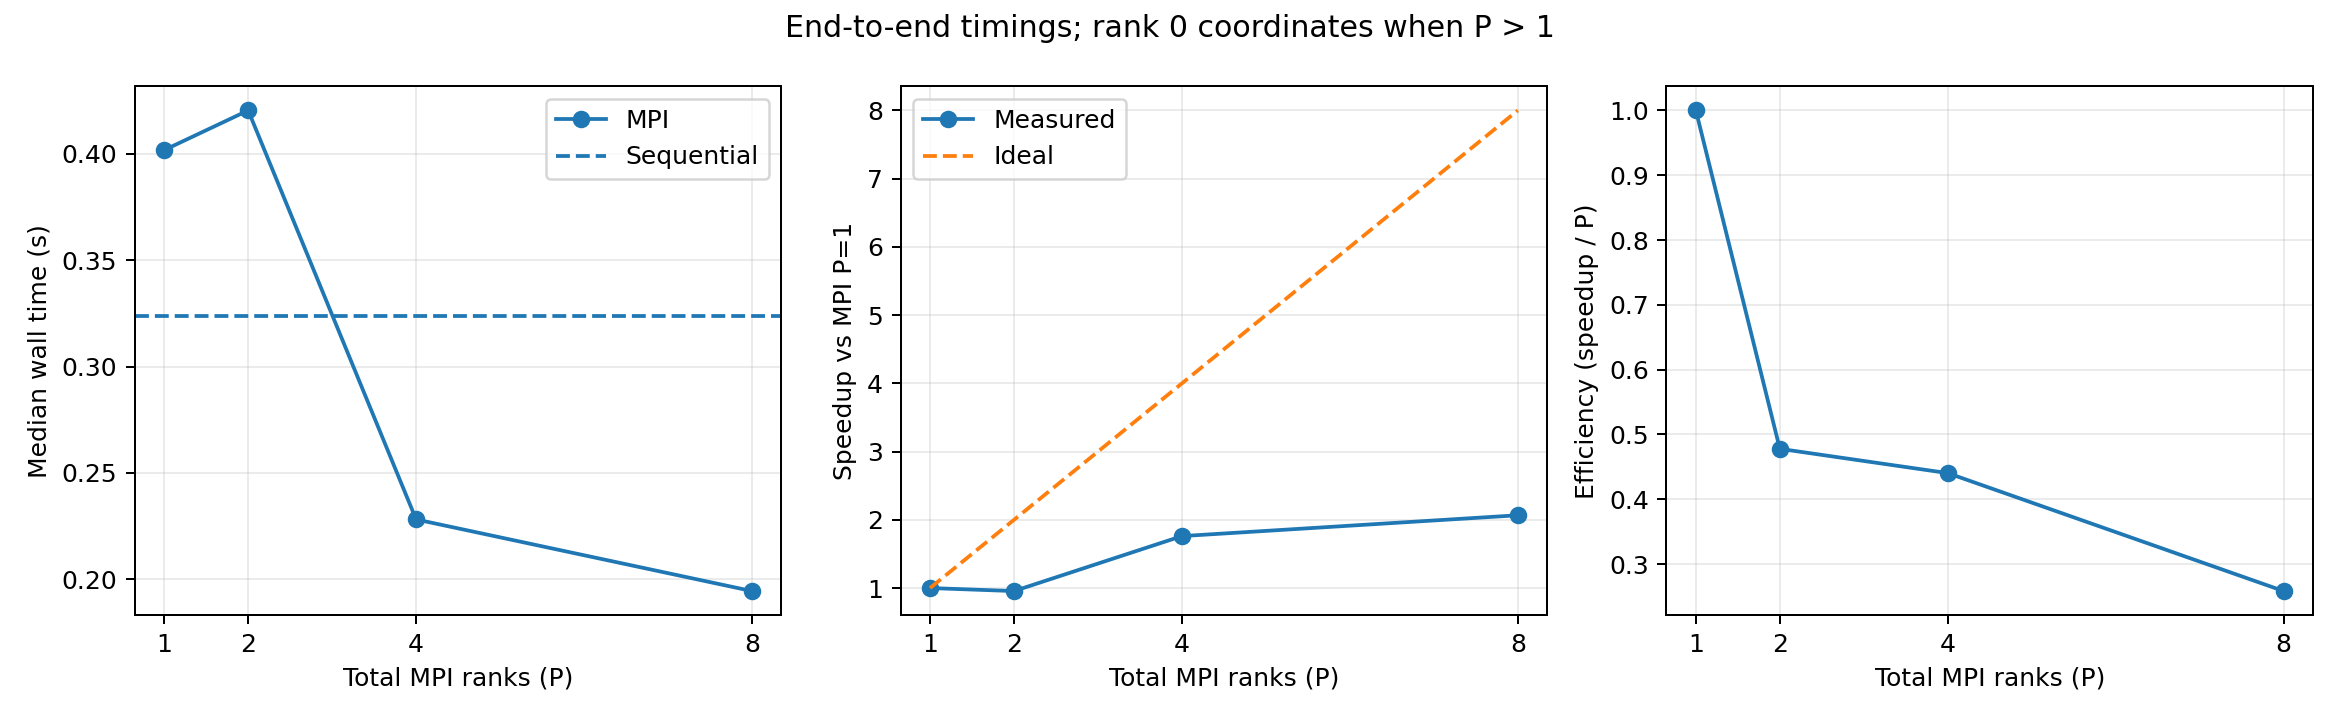
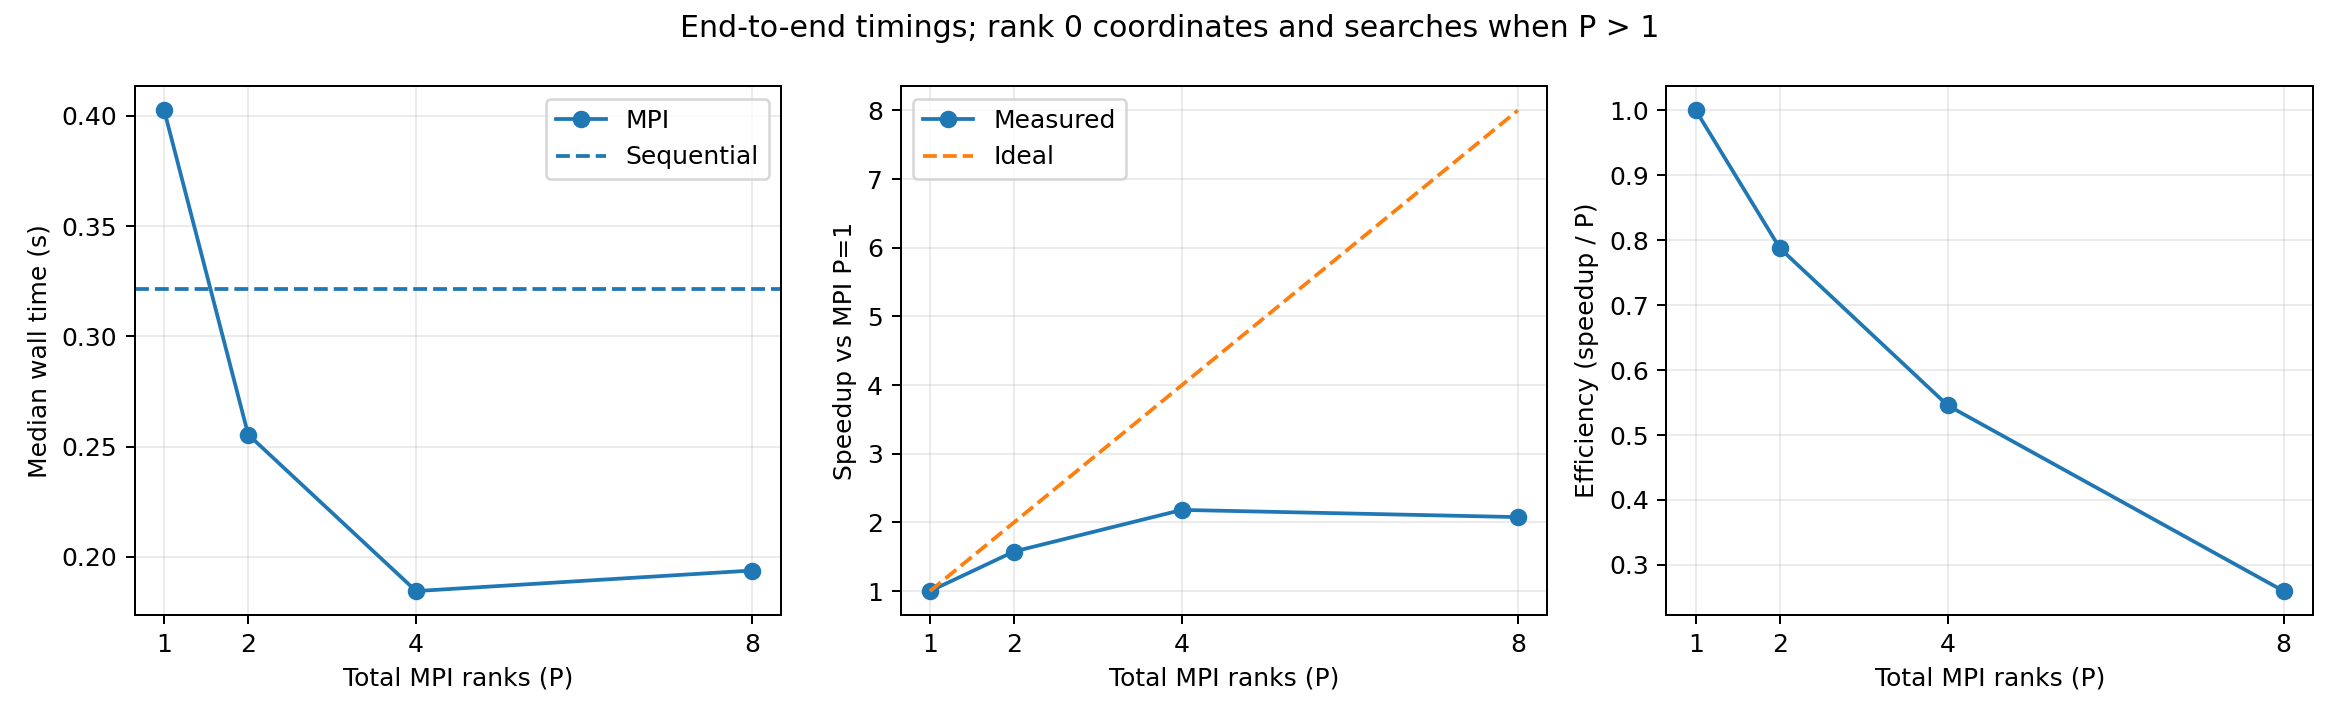
Optimize MPI scheduling with coordinator search and coalesced updates

diff --git a/src/mpi.cpp b/src/mpi.cpp
@@ -1,16 +1,22 @@
 #include "solver.hpp"
 #include <mpi.h>
+#include <functional>
 
-const int TAG_WORK        = 1;  
-const int TAG_RESULT      = 2;  
-const int TAG_DONE        = 3;  
-const int TAG_PMAX        = 4;  
-const int TAG_UPDATE_PMAX = 5;  
+const int TAG_WORK        = 1;
+const int TAG_RESULT      = 2;
+const int TAG_DONE        = 3;
+const int TAG_PMAX        = 4;
+const int TAG_UPDATE_PMAX = 5;
 
 
 
 const int WORK_BUF = 2;
-const int RES_BUF  = 2 + MAXN;  
+const int RES_BUF  = 2 + MAXN;
+
+static function<void()> coordinator_progress;
+static function<void()> coordinator_notify;
+void poll_coordinator() { coordinator_progress(); }
+void notify_coordinator() { coordinator_notify(); }
 
 void drain_pmax_updates() {
     int flag, np;
@@ -63,56 +69,79 @@ int main(int argc, char** argv) {
 
     // ── MASTER (rank 0) ───────────────────────────────────────────────────────
     if (rank == 0) {
+        struct Task { int root; };
+        vector<Task> tasks;
+        // Omit infeasible roots and roots without any feasible extension.
+        // Singleton solutions are retained by the coordinator.
+        for (int root = 0; root < N; ++root) {
+            if (nodes[root].cost > B) continue;
+            if (nodes[root].profit > Pmax) {
+                Pmax = nodes[root].profit;
+                best_clique = {root};
+            }
+            vector<int> extensions;
+            for (int u = root + 1; u < N; ++u)
+                if (adj[root].test(u) && nodes[root].cost + nodes[u].cost <= B)
+                    extensions.push_back(u);
+            if (extensions.empty()) continue;
+            tasks.push_back({root});
+        }
         int sent = 0, active = 0;
         int workers = size - 1;
         int wbuf[WORK_BUF], rbuf[RES_BUF];
         set<int> active_set;
-        // Stable per-send buffers prevent cyclic blocking and buffer reuse races.
-        struct PendingUpdate { int value; MPI_Request request; };
-        list<PendingUpdate> pending;
-        auto send_bound = [&](int worker) {
-            for (auto it = pending.begin(); it != pending.end();) {
-                int complete = 0;
-                MPI_Test(&it->request, &complete, MPI_STATUS_IGNORE);
-                if (complete) it = pending.erase(it); else ++it;
+        // At most one update in flight per worker; newer bounds are coalesced.
+        struct BoundChannel {
+            int value = 0;
+            MPI_Request request = MPI_REQUEST_NULL;
+        };
+        vector<BoundChannel> channels(size);
+        auto flush_bounds = [&]() {
+            for (int worker : active_set) {
+                auto& channel = channels[worker];
+                if (channel.request != MPI_REQUEST_NULL) {
+                    int complete = 0;
+                    MPI_Test(&channel.request, &complete, MPI_STATUS_IGNORE);
+                    if (!complete) continue;
+                }
+                if (channel.value < Pmax) {
+                    channel.value = Pmax;
+                    MPI_Isend(&channel.value, 1, MPI_INT, worker, TAG_PMAX,
+                              MPI_COMM_WORLD, &channel.request);
+                }
             }
-            pending.push_back({Pmax, MPI_REQUEST_NULL});
-            auto& update = pending.back();
-            MPI_Isend(&update.value, 1, MPI_INT, worker, TAG_PMAX,
-                      MPI_COMM_WORLD, &update.request);
         };
 
-        auto send_task = [&](int w, int root_idx) {
+        auto send_task = [&](int w, const Task& task) {
             wbuf[0] = Pmax;
-            wbuf[1] = root_idx;
+            wbuf[1] = task.root;
             MPI_Send(wbuf, WORK_BUF, MPI_INT, w, TAG_WORK, MPI_COMM_WORLD);
             active_set.insert(w);
         };
 
         for (int w = 1; w <= workers; w++) {
-            if (sent < N) {
-                send_task(w, sent++);
+            if (sent < static_cast<int>(tasks.size())) {
+                send_task(w, tasks[sent++]);
                 active++;
             } else {
                 MPI_Send(nullptr, 0, MPI_INT, w, TAG_DONE, MPI_COMM_WORLD);
             }
         }
 
-        while (active > 0) {
+        auto receive_message = [&]() {
             MPI_Status st;
             MPI_Recv(rbuf, RES_BUF, MPI_INT, MPI_ANY_SOURCE, MPI_ANY_TAG, MPI_COMM_WORLD, &st);
 
             int w = st.MPI_SOURCE;
+            flush_bounds();
 
             if (st.MPI_TAG == TAG_UPDATE_PMAX) {
                 int wpmax = rbuf[0];
                 if (wpmax > Pmax) {
                     Pmax = wpmax;
-                    for (int aw : active_set) {
-                        if (aw != w) send_bound(aw);
-                    }
+                    flush_bounds();
                 }
-                continue; 
+                return;
             }
 
             int wpmax = rbuf[0], csz = rbuf[1];
@@ -123,23 +152,56 @@ int main(int argc, char** argv) {
                 best_clique.assign(rbuf + 2, rbuf + 2 + csz);
             }
             if (Pmax > old_pmax) {
-                for (int aw : active_set) {
-                    if (aw != w) send_bound(aw);
-                }
+                flush_bounds();
             }
 
             active--;
             active_set.erase(w);
 
-            if (sent < N) {
-                send_task(w, sent++);
+            if (sent < static_cast<int>(tasks.size())) {
+                send_task(w, tasks[sent++]);
                 active++;
             } else {
                 MPI_Send(nullptr, 0, MPI_INT, w, TAG_DONE, MPI_COMM_WORLD);
             }
-        }
+        };
 
-        for (auto& update : pending) MPI_Wait(&update.request, MPI_STATUS_IGNORE);
+        auto progress = [&]() {
+            int available = 0;
+            do {
+                MPI_Iprobe(MPI_ANY_SOURCE, MPI_ANY_TAG, MPI_COMM_WORLD,
+                           &available, MPI_STATUS_IGNORE);
+                if (available) receive_message();
+            } while (available);
+            flush_bounds();
+        };
+        coordinator_progress = progress;
+        coordinator_notify = flush_bounds;
+        is_worker = true;
+        poll_updates = poll_coordinator;
+        report_improvement = notify_coordinator;
+        // Rank 0 searches while servicing messages at recursive polling points.
+        while (sent < static_cast<int>(tasks.size()) || active > 0) {
+            progress();
+            if (sent < static_cast<int>(tasks.size())) {
+                int root = tasks[sent++].root;
+                bitset<MAXN> sub;
+                for (int u = root + 1; u < N; ++u)
+                    if (adj[root].test(u)) sub.set(u);
+                vector<int> cur{root};
+                call_count = 0;
+                findClique(sub, cur, nodes[root].profit, nodes[root].cost);
+            } else if (active > 0) {
+                receive_message();
+            }
+        }
+        is_worker = false;
+        coordinator_progress = {};
+        coordinator_notify = {};
+
+        for (auto& channel : channels)
+            if (channel.request != MPI_REQUEST_NULL)
+                MPI_Wait(&channel.request, MPI_STATUS_IGNORE);
         fprintf(stderr, "Search seconds: %.6f\n", MPI_Wtime() - search_start);
         write_output(argv[2]);
         
@@ -153,7 +215,7 @@ int main(int argc, char** argv) {
         while (true) {
             MPI_Status st;
             MPI_Recv(wbuf, WORK_BUF, MPI_INT, 0, MPI_ANY_TAG, MPI_COMM_WORLD, &st);
-            
+
             if (st.MPI_TAG == TAG_DONE) break;
             
             if (st.MPI_TAG == TAG_PMAX) {
@@ -162,7 +224,7 @@ int main(int argc, char** argv) {
             }
             
             Pmax = max(Pmax, wbuf[0]);
-            task_own_pmax = 0;   
+            task_own_pmax = 0;
             best_clique.clear();
             
             int root = wbuf[1];

diff --git a/tests/test_correctness.py b/tests/test_correctness.py
@@ -77,6 +77,22 @@ class Correctness(unittest.TestCase):
             self.assertEqual(run.returncode, 0, run.stderr)
             self.assertEqual(validate(graph, output), 2)
 
+    def test_complete_graph_with_many_candidates(self):
+        # Exercise a large feasible clique and coordinator-held witnesses.
+        source, output = self.folder/'split.txt', self.folder/'out.txt'
+        n = 64
+        source.write_text(f'{n} {n*(n-1)//2} {n}\n' + '1 1\n'*n +
+                          ''.join(f'{u} {v}\n' for u in range(n) for v in range(u+1,n)))
+        graph = read_graph(source)
+        commands = [[str(ROOT/'build/clique-seq')]]
+        if not ARGS.sequential_only:
+            commands += [['mpirun'] + shlex.split(ARGS.mpi_flags) +
+                         ['-np', str(p), str(ROOT/'build/clique-mpi')] for p in [4, 8]]
+        for command in commands:
+            run = subprocess.run(command+[str(source),str(output)], capture_output=True, text=True, timeout=30)
+            self.assertEqual(run.returncode, 0, run.stderr)
+            self.assertEqual(validate(graph, output), n)
+
     def test_invalid_inputs_fail(self):
         invalid = ['3 0 1\n1000000000 1\n1000000000 1\n1000000000 1\n', '1201 0 0\n', '1 0 -1\n1 1\n', '1 0 1\n1 0\n',
                    '2 1 1\n1 1\n1 1\n0 2\n', '1 0 1\n',

diff --git a/scripts/benchmark.py b/scripts/benchmark.py
@@ -87,7 +87,7 @@ def main():
                               mpi1_efficiency=(mpi1/elapsed)/p if implementation == 'mpi' else ''))
     for name, records in [('trials.csv', rows), ('summary.csv', summaries)]:
         with (args.output_dir/name).open('w', newline='') as f:
-            writer = csv.DictWriter(f, fieldnames=list(records[0]))
+            writer = csv.DictWriter(f, fieldnames=list(records[0]), lineterminator='\n')
             writer.writeheader()
             writer.writerows(records)
     metadata = dict(timestamp_utc=time.strftime('%Y-%m-%dT%H:%M:%SZ', time.gmtime()),

diff --git a/scripts/plot.py b/scripts/plot.py
@@ -30,7 +30,7 @@ for ax in axes:
     ax.set_xlabel('Total MPI ranks (P)')
     ax.set_xticks(p)
     ax.grid(alpha=.25)
-fig.suptitle('End-to-end timings; rank 0 coordinates when P > 1')
+fig.suptitle('End-to-end timings; rank 0 coordinates and searches when P > 1')
 fig.tight_layout()
 args.output.parent.mkdir(parents=True, exist_ok=True)
 fig.savefig(args.output, dpi=180)

diff --git a/README.md b/README.md
@@ -24,7 +24,7 @@ Use `make sequential` if MPI is unavailable, and `make mpi` to build only the di
 
 ## Search and distribution
 
-Both executables share the search engine in [src/solver.hpp](src/solver.hpp). It uses fixed arrays, bitset candidates, ratio ordering, greedy coloring, fractional-knapsack bounds, and root traversal. The sequential runner and MPI with one rank both call the same `solve_all()` function. MPI communication is provided through worker-only hooks; the sequential executable has no MPI dependency.
+Both executables share the search engine in [src/solver.hpp](src/solver.hpp). It uses fixed arrays, bitset candidates, ratio ordering, greedy coloring, fractional-knapsack bounds, and root traversal. The sequential runner and MPI with one rank both call the same `solve_all()` function. MPI communication is provided through hooks on searching ranks; the sequential executable has no MPI dependency.
 
 Vertices are sorted by descending profit-to-cost ratio using exact integer cross-products, with input vertex IDs retained for output. Adjacency is stored in fixed-width 1,201-bit bitsets with at most 1,200 valid vertices. Candidate intersections enforce the clique condition, while removing each explored vertex prevents duplicate branches.
 
@@ -35,7 +35,7 @@ Two upper bounds prune search:
 
 Every feasible search prefix updates the incumbent before pruning. A subtree begins with one vertex and permits only later vertices, so each nonempty clique belongs to exactly one root task.
 
-With `P > 1`, MPI rank 0 reads and broadcasts the graph, dispatches root tasks dynamically, and retains the best result. The other `P - 1` ranks search subtrees. Each dispatch includes the current incumbent. Workers report improved profits during recursion and periodically poll for coordinator updates; completed tasks return their locally discovered profit and vertex set. Coordinator updates use nonblocking sends with stable buffers to avoid cyclic blocking. The graph broadcast uses raw struct/bitset data and assumes compatible binaries and object layouts across ranks. With one rank, MPI calls the same local search as the sequential executable.
+With `P > 1`, MPI rank 0 reads and broadcasts the graph, dispatches root tasks dynamically, and retains the best result. Rank 0 also searches unassigned root subtrees and services messages at recursive polling points, so all `P` ranks can contribute search work. Each dispatch includes the current incumbent. Workers report improved profits during recursion and periodically poll for coordinator updates; completed tasks return their locally discovered profit and vertex set. Coordinator updates use a stable per-worker buffer and at most one nonblocking send in flight per worker; newer bounds are coalesced until the buffer is free. Infeasible roots and roots without a feasible extension are omitted after recording their singleton solutions. The graph broadcast uses raw struct/bitset data and assumes compatible binaries and object layouts across ranks. With one rank, MPI calls the same local search as the sequential executable.
 
 ```mermaid
 flowchart LR
@@ -101,7 +101,7 @@ The benchmark uses Python subprocess wall time, including process launch, MPI in
 
 Artifacts include raw trial timings, medians, output solutions, input hash, binary hashes, generation metadata when supplied, platform and CPU information, compiler/MPI versions, commands, Git revision and worktree status. Build flags are controlled by the Makefile; record overrides separately when changing them. Use multiple graph sizes, densities, seeds, and budgets for a broader study. Keep process counts within allocated resources, or explicitly pass `--mpi-flags='--oversubscribe'` for a local experiment.
 
-`sequential_speedup = T_seq / T_MPI(P)` compares the executables. `mpi1_speedup = T_MPI(1) / T_MPI(P)` measures MPI scaling. `mpi1_efficiency = mpi1_speedup / P` counts all ranks, including the coordinator. Sequential and one-rank MPI use the identical search function. End-to-end MPI timings still include launch and initialization overhead; parallel scheduling and incumbent arrival order can affect search work. Use the MPI-one-rank baseline to assess MPI scaling; scheduling, incumbent communication, graph distribution, and the dedicated coordinator still affect it.
+`sequential_speedup = T_seq / T_MPI(P)` compares the executables. `mpi1_speedup = T_MPI(1) / T_MPI(P)` measures MPI scaling. `mpi1_efficiency = mpi1_speedup / P` counts all ranks, including the coordinator. Sequential and one-rank MPI use the identical search function. End-to-end MPI timings still include launch and initialization overhead; parallel scheduling and incumbent arrival order can affect search work. Use the MPI-one-rank baseline to assess MPI scaling; scheduling, incumbent communication, graph distribution, and coordinator message servicing still affect it.
 
 The measured [sequential-versus-MPI benchmark](benchmarks/seq-vs-mpi/README.md) compares sequential and MPI execution of the shared search engine. Raw trials, environment metadata, validated outputs, and a scaling chart are included. Results describe this workload and machine; use multiple graphs and machines before drawing general conclusions.
 

diff --git a/benchmarks/seq-vs-mpi/README.md b/benchmarks/seq-vs-mpi/README.md
@@ -1,24 +1,24 @@
 # Sequential versus MPI benchmark
 
-Both executables use the same search engine in `src/solver.hpp`. Sequential and one-rank MPI call the same root traversal, bounds, candidate operations, and incumbent updates.
+Both executables use the search engine in `src/solver.hpp`. Sequential and one-rank MPI call the same root traversal and bounds. With multiple ranks, rank 0 coordinates and also searches, servicing incoming messages at recursive polling points. Incumbent updates use one stable in-flight buffer per worker; newer bounds are coalesced.
 
-Measured on Apple M1 with 8 logical CPUs, Apple Clang, C++17 `-O3`, and Open MPI 5.0.9. Graph: 400 vertices, 39890 edges, density parameter 0.5, budget 500, seed 42, profits/costs in 1–100. One warmup and five measured trials per configuration, with MPI rank counts 1, 2, 4, and 8. All MPI runs explicitly use `--oversubscribe`.
+Measured on Apple M1 with 8 logical CPUs, Apple Clang, C++17 `-O3`, and Open MPI 5.0.9. Graph: 400 vertices, 39,890 edges, density parameter 0.5, budget 500, seed 42, profits/costs in 1–100. One warmup and five measured trials per configuration; rank counts 1, 2, 4, and 8. MPI commands use `--oversubscribe`.
 
 | Implementation | Total ranks | Median search (s) | Median wall (s) | Search speedup vs seq | Wall speedup vs seq |
 | --- | ---: | ---: | ---: | ---: | ---: |
-| sequential | 1 | 0.318238 | 0.323844 | 1.00× | 1.00× |
-| mpi | 1 | 0.317928 | 0.401806 | 1.00× | 0.81× |
-| mpi | 2 | 0.330246 | 0.420448 | 0.96× | 0.77× |
-| mpi | 4 | 0.115635 | 0.228112 | 2.75× | 1.42× |
-| mpi | 8 | 0.070713 | 0.194423 | 4.50× | 1.67× |
+| sequential | 1 | 0.315937 | 0.321563 | 1.00× | 1.00× |
+| mpi | 1 | 0.319158 | 0.402463 | 0.99× | 0.80× |
+| mpi | 2 | 0.171510 | 0.255419 | 1.84× | 1.26× |
+| mpi | 4 | 0.093668 | 0.184426 | 3.37× | 1.74× |
+| mpi | 8 | 0.070900 | 0.193748 | 4.46× | 1.66× |
 
 ![End-to-end runtime and MPI scaling](scaling.png)
 
-Search timing excludes input/output, launch, MPI initialization/finalization, and graph broadcast. For multiple ranks it includes coordinator scheduling, worker search, incumbent communication, and completion of pending updates. Wall time includes the entire subprocess execution. MPI-one-rank wall time can exceed sequential even with the identical search because of MPI startup overhead.
+Search timing excludes input/output, launch, MPI initialization/finalization, and graph broadcast. Distributed timing includes task preparation, coordinator search, scheduling, incumbent communication, and completion of pending updates. Wall time includes launch through exit.
 
-All 25 measured outputs passed feasibility validation and agreed on profit 876. This graph is not independently checked for optimality. Tests compare both runners against an independent exhaustive oracle on small graphs.
+All 25 measured outputs passed feasibility validation and agreed on profit 876. The graph is not independently checked for optimality. Integration tests compare both runners against exhaustive small-instance enumeration and cover empty input, surplus workers, infeasible roots, large integers, malformed input, and a complete 64-vertex graph.
 
-MPI with P>1 uses a dedicated coordinator and P-1 search workers. Search work can vary with scheduling and incumbent arrival order. Eight ranks had the lowest measured end-to-end median among the tested configurations. These measurements are one-machine, one-seed evidence, not a guarantee of general or multi-node scaling.
+All ranks can contribute search work. Rank 0 divides its time between searching and communication, so scheduling and polling overhead still affect scaling. These are one-machine, one-seed measurements. Eight-rank results are sensitive to small runtime and scheduling variation; improved performance is not guaranteed for every graph.
 
 Reproduce:
 
@@ -32,4 +32,4 @@ MPLCONFIGDIR=/tmp/clique-mpl python3 scripts/plot.py \
   benchmarks/local/summary.csv --output benchmarks/local/scaling.png
 ```
 
-Raw trial timings are in [trials.csv](trials.csv), medians and end-to-end scaling metrics in [summary.csv](summary.csv), and compiler/environment details, commands, and source/binary hashes in [metadata.json](metadata.json).
+Raw timings are in [trials.csv](trials.csv), summary metrics in [summary.csv](summary.csv), and commands, environment details, and source/binary hashes in [metadata.json](metadata.json).
